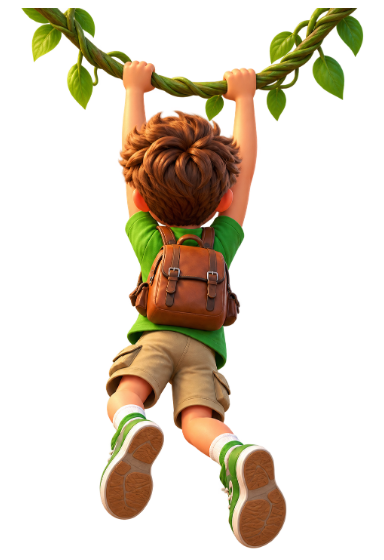
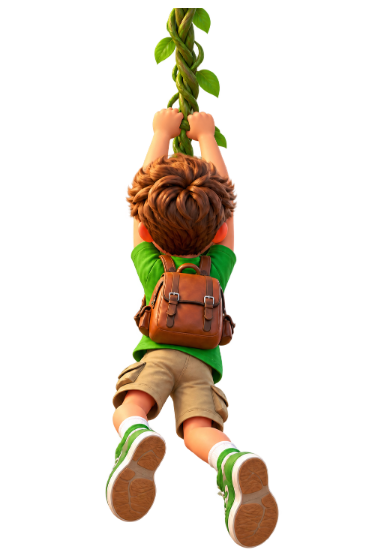
runner: Stefan's ravine (sampled row by row like the path, no seam), cliff edge where the path breaks off, long liana from the top of the screen and swing poses that hold it (art of 18 Sep)
Claude-Session: https://claude.ai/code/session_01JtiWPMo1Ad6AaJa51j3FBT

Changed region(s): [[0.0625, 0.0, 0.9688, 1.0]]

diff --git a/assets/games/jungle/renderer.js b/assets/games/jungle/renderer.js
@@ -99,9 +99,9 @@ export class Renderer{
  let prevGap=false;
  for(let y=312;y<902;y+=2){const depth=CAMERA.focal*CAMERA.height/(y-CAMERA.horizon),scale=CAMERA.focal/depth,worldZ=depth+distance,off=this.off(depth);
   const gap=gapAt(depth);
-  if(gap){if(ravine){const ty=((worldZ*.28)%1+1)%1*ravine.height;const w=Math.min(600,300+scale*1.7),x0=300-w/2;g.fillStyle=deep;g.fillRect(0,y,600,3);g.drawImage(ravine,0,ty,ravine.width,1,x0,y,w,3);}else{g.fillStyle=deep;g.fillRect(0,y,600,3);const wall=night?'#1c2f22':'#5f7a45';g.fillStyle=wall;g.fillRect(300-1.9*scale,y,.4*scale,3);g.fillRect(300+1.5*scale,y,.4*scale,3);}
-   if(!prevGap){if(edge){const h=Math.max(10,Math.min(160,scale*.6));g.drawImage(edge,300-Math.min(300,150+scale*.85),y-h*.55,Math.min(600,300+scale*1.7),h);}else{g.fillStyle=night?'#0a1f16':L.air?.kind==='swing'?'#24462a':'#9fc9ee';g.fillRect(0,y-4,600,5);}}prevGap=true;continue;}
-  if(prevGap){if(edge&&L.air?.kind==='swing'){const h=Math.max(10,Math.min(160,scale*.6));g.save();g.translate(300,y);g.scale(1,-1);g.drawImage(edge,-Math.min(300,150+scale*.85),-h*.45,Math.min(600,300+scale*1.7),h);g.restore();}else{g.fillStyle=L.air?.kind==='swing'?'#2b4a2a':'#c9def5';g.fillRect(0,y,600,3);}}prevGap=false;
+  if(gap){if(ravine){/* ping-pong through the painting (no seam); the source strip grows with the depth a row covers, so far rows average instead of alias */const span=5,ph=((worldZ/span)%2+2)%2,ty=(ph<1?ph:2-ph)*(ravine.height-1),dd=depth-CAMERA.focal*CAMERA.height/(y+2-CAMERA.horizon),sh=Math.max(1,Math.min(40,dd*ravine.height/span,ravine.height-ty));const w=Math.min(600,300+scale*1.7),x0=300-w/2;g.fillStyle=deep;g.fillRect(0,y,600,3);g.drawImage(ravine,0,ty,ravine.width,sh,x0,y,w,3);}else{g.fillStyle=deep;g.fillRect(0,y,600,3);const wall=night?'#1c2f22':'#5f7a45';g.fillStyle=wall;g.fillRect(300-1.9*scale,y,.4*scale,3);g.fillRect(300+1.5*scale,y,.4*scale,3);}
+   if(!prevGap){if(edge){const w=Math.min(600,300+scale*1.7),h=w*edge.height/edge.width;g.drawImage(edge,300-w/2,y-h*.62,w,h);}else{g.fillStyle=night?'#0a1f16':L.air?.kind==='swing'?'#24462a':'#9fc9ee';g.fillRect(0,y-4,600,5);}}prevGap=true;continue;}
+  if(prevGap){if(L.air?.kind==='swing'){g.fillStyle=night?'#0a1f16':'#3a2a18';g.fillRect(300-1.6*scale,y-2,3.2*scale,4);}else{g.fillStyle=L.air?.kind==='swing'?'#2b4a2a':'#c9def5';g.fillRect(0,y,600,3);}}prevGap=false;
   const phase=((worldZ/10)%2+2)%2,t=phase<1?phase:2-phase,sy=bg.height*(.80+t*.19),left=300-1.50*scale+off,right=300+1.50*scale+off;
   g.drawImage(bg,bg.width*.30,sy,bg.width*.40,1,left,y,right-left,3);
  }
@@ -147,7 +147,7 @@ export class Renderer{
   const mix=blend; // 0 = on the ground, 1 = fully airborne; poses cross-fade in between
   if(air==='swing'||(mix>0&&L.air?.kind==='swing')){ // the liana: the painted pose holds its own vine; the stand-in (jump pose) gets a drawn one from high above
    const hx=p.x+Math.sin(s.time*2.1)*26,top={x:p.x-Math.sin(s.time*2.1)*60,y:-40},hand={x:hx,y:bottom-235};const liana=this.images['scenery-liana'];
-   if(liana){const ang=Math.atan2(hand.x-top.x,hand.y-top.y),len=Math.hypot(hand.x-top.x,hand.y-top.y)+30,w=len*liana.width/liana.height;g.save();g.globalAlpha=alpha*mix;g.translate(top.x,top.y);g.rotate(-ang);g.drawImage(liana,-w/2,0,w,len);g.restore();}
+   if(liana){const ang=Math.atan2(hand.x-top.x,hand.y-top.y),len=Math.hypot(hand.x-top.x,hand.y-top.y)+60,w=len*liana.width/liana.height;g.save();g.globalAlpha=alpha*mix;g.translate(top.x,top.y);g.rotate(-ang);g.drawImage(liana,-w/2,0,w,len);g.restore();}
    else if(!manifest?.has(`hero-${hero}-swing`)){g.save();g.strokeStyle=this.isNight?'#3c5a2a':'#5c7a2f';g.lineWidth=9;g.lineCap='round';g.beginPath();g.moveTo(top.x,top.y);g.quadraticCurveTo(top.x+(hand.x-top.x)*.4,top.y+(hand.y-top.y)*.55,hand.x,hand.y);g.stroke();g.strokeStyle=this.isNight?'#5a7d3a':'#8fb23f';g.lineWidth=4;g.stroke();g.restore();}
    if(mix<1)this.image(s.jump>0?`hero-${hero}-jump`:`hero-${hero}-run-0${1+Math.floor(s.distance*27)%4}`,p.x,bottom,211,clampTilt(s),alpha*(1-mix));
    this.image(`hero-${hero}-swing`,hx,bottom,211,sway,alpha*mix);}
